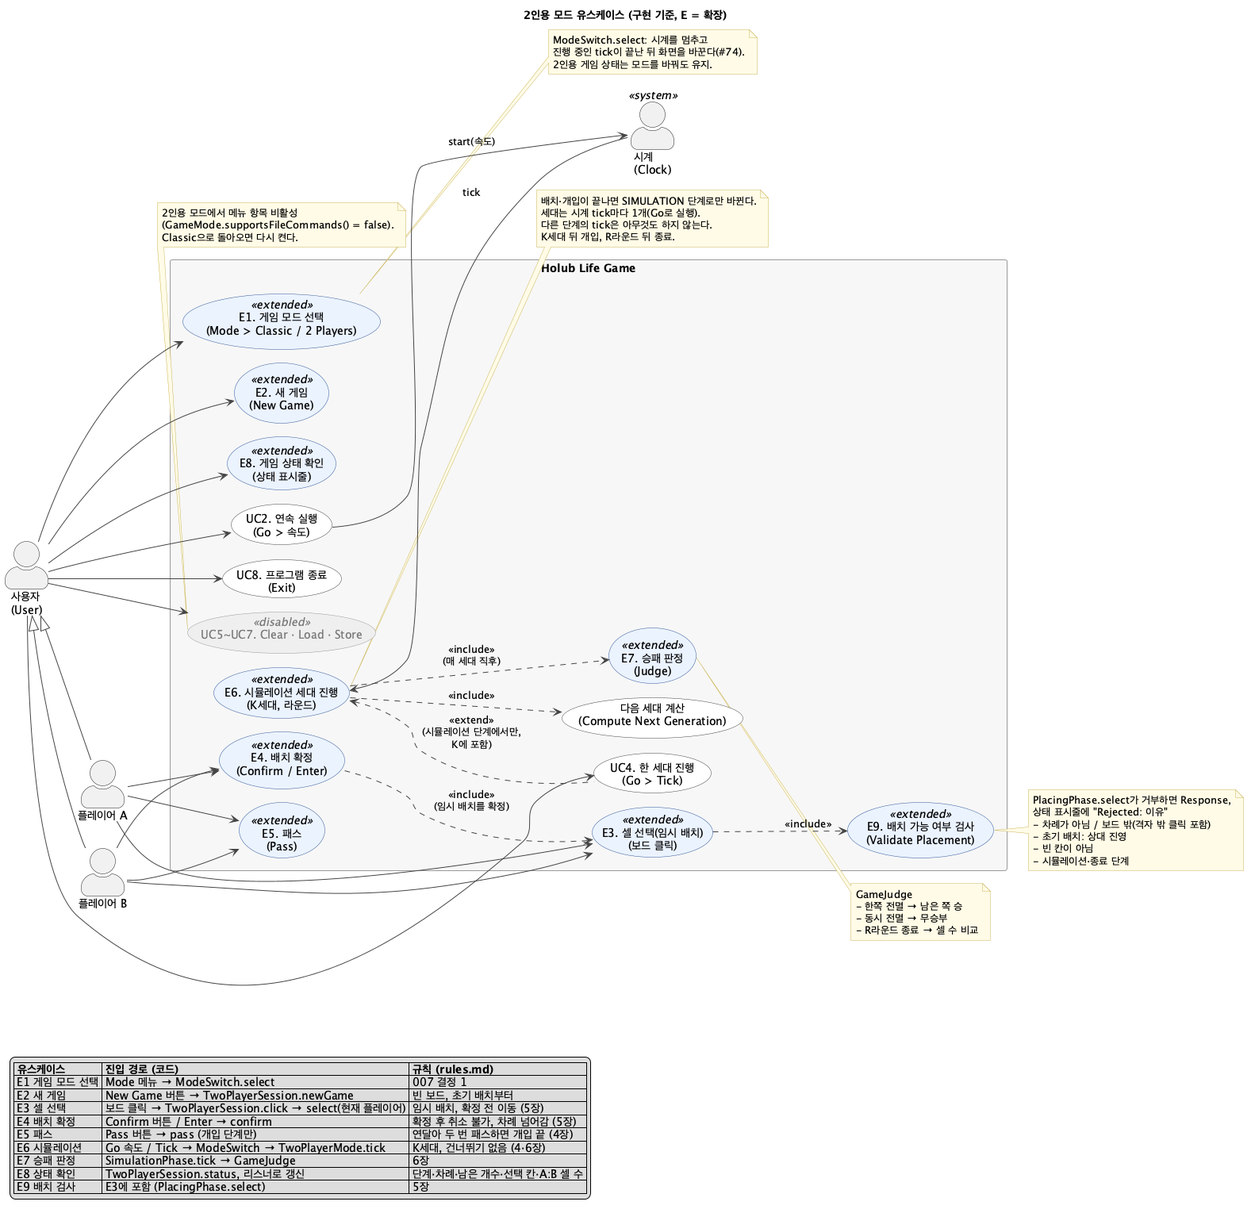
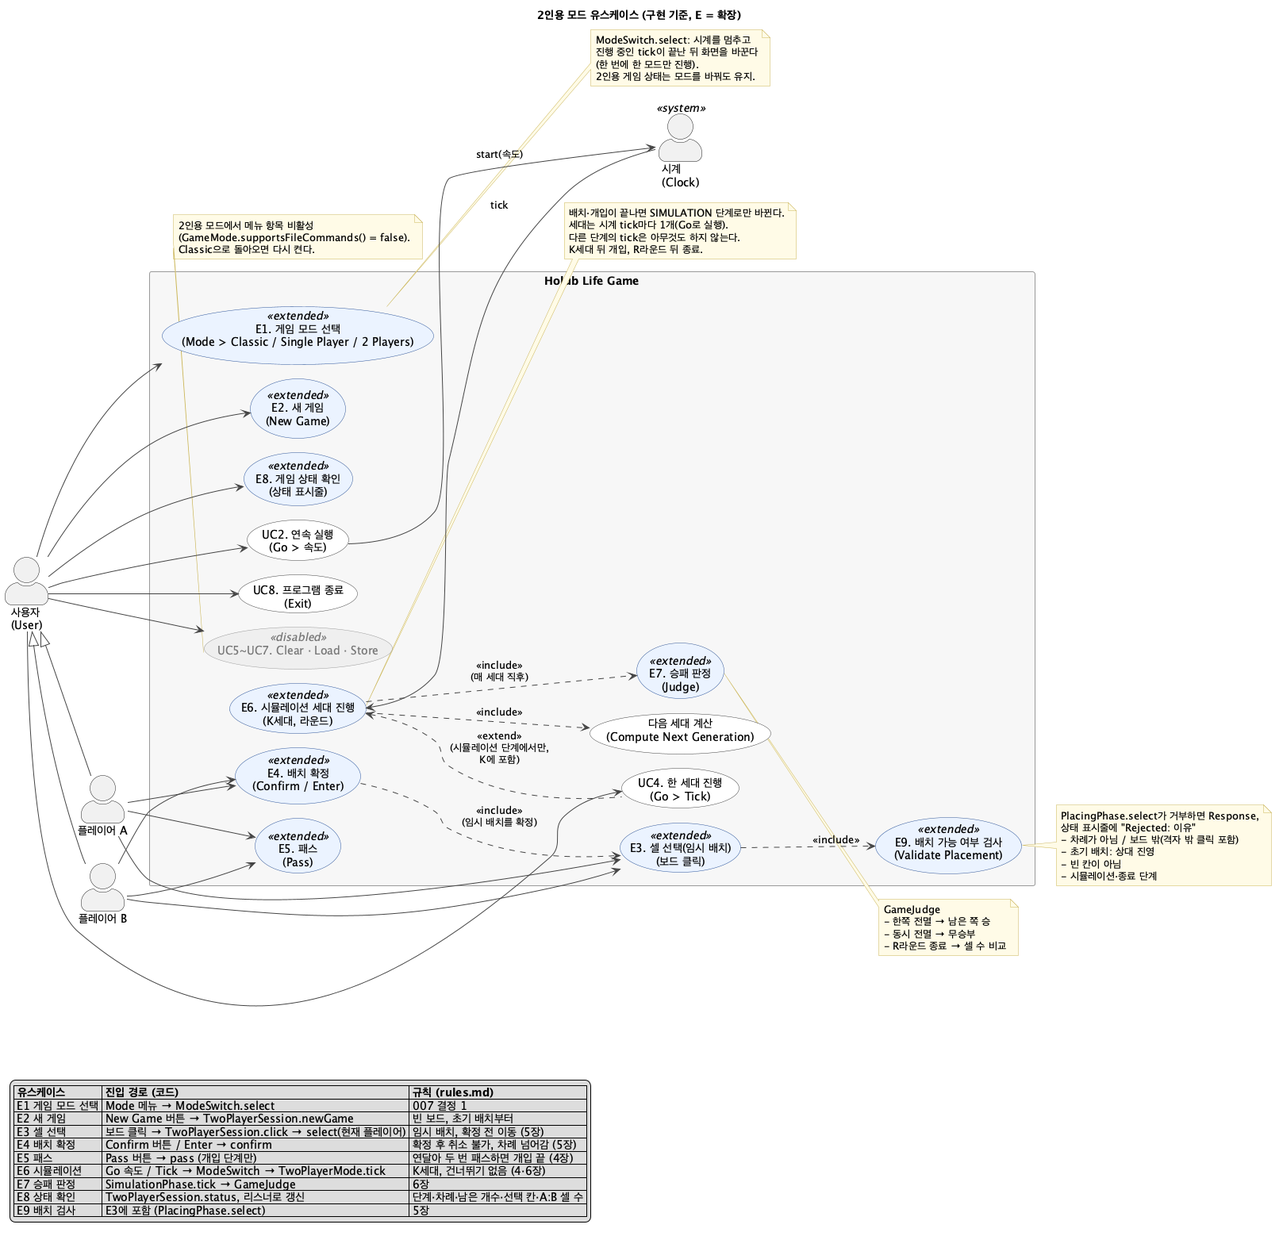
docs: 2인용 문서를 #8 이후 다른 도메인 변경에 맞춰 최종 정리 (#113)
- 006·007: 결정 당시 본문은 보존하고 "이후 변경" 절 추가
  (#69~#74 처리 결과, #74 수정 뒤 StaticLockCheck 재측정, #102·#109 영향)
- interfaces.md: TwoPlayerResident 계약(Cell 메서드 11개, 암 메서드 없음), 줄 번호, 변경 이력
- test-cases.md·README.md: 최종 테스트 결과(전체 454개 통과), 이 패키지의 A 모델 테스트 정리
- rules.md 9장 D1: 2인용에서 Preset 메뉴도 꺼짐
- twoplayer-ui-class·twoplayer-usecase 다이어그램 갱신

diff --git a/Codes/GameOfLife/src/com/holub/life/twoplayer/docs/README.md b/Codes/GameOfLife/src/com/holub/life/twoplayer/docs/README.md
@@ -2,7 +2,7 @@
 
 두 플레이어가 한 화면에서 번갈아 셀을 두고, 클래식 B3/S23 규칙으로 영역을 다투는 승패 모드다. 규칙은 [rules.md](rules.md).
 
-## 현재 상태 (2026-11-16)
+## 현재 상태 (2026-11-25, 최종)
 
 | 부분 | 이슈 | 상태 |
 | --- | --- | --- |
@@ -10,8 +10,22 @@
 | 셀 상태(DEAD/A/B)와 세대 전이 규칙, `TwoPlayerBoard` 실제 구현 | #5 | 구현 완료([006](006-two-player-cell.md) 후보 F, model·ui·application 무수정). `NeighborhoodTwoPlayerBoard`로 TP-R·TP-B·TP-I 37개 통과 |
 | UI 통합 (모드 선택·입력·상태 표시줄) | #7 | 구현 완료([007](007-two-player-ui.md) D: `GameMode` + `ModeSwitch`, model·application 무수정). TP-U 17개 통과 |
 | 문서·다이어그램 정리 | #8 | 완료. 유스케이스 다이어그램 추가, 클래스·시퀀스·상태 다이어그램을 현재 코드로 갱신, rules.md 9장(구현과 다른 부분) |
+| 다른 도메인 변경 반영 | #69~#74, #102, #109 | 완료. 006·007 끝에 "이후 변경" 절, 계약(interfaces.md)·테스트 문서·UI 다이어그램을 `origin/main` `2c22cab` 기준으로 갱신. 2인용 코드의 공개 시그니처 변경 없음 |
 
-브랜치: 이슈마다 `feature/base`에서 브랜치를 따서(`feature/5-two-player-cell`, `feature/7-two-player-ui`) `feature/base`로 PR을 보낸다. 예전 통합 브랜치 `feature/two-player-mode`는 2026-11-15에 지웠다.
+**다른 도메인 작업이 2인용에 준 영향** (#5에서 올린 이슈 (a)~(f)와 그 뒤 변경, 자세한 내용은 [006 "이후 변경"](006-two-player-cell.md#이후-변경-2026-11-25-확인)·[007 "이후 변경"](007-two-player-ui.md#이후-변경-2026-11-25-확인))
+
+| 이슈 | 결과 | 2인용 쪽 |
+| --- | --- | --- |
+| #69 렌더러가 `Resident`만 그림 | 닫힘, `BoardRenderer` 현행 유지 | `TwoPlayerRenderer` 그대로 |
+| #70 `Cell`의 암 메서드 | 코드 반영(PR #107), `CancerCell` 분리 | `TwoPlayerResident`에서 암 메서드 3개 삭제 |
+| #71 `java.awt.Point` 노출 | 닫힘(PR #106), `CellPosition` | `twoplayer`의 `java.awt` import 0 |
+| #72 2인용 진입점 | 닫힘(#7) | `TwoPlayerSession`·`TwoPlayerMode` |
+| #73 스냅숏이 생사만 저장 | 닫힘(PR #83) | 영향 없음(2인용은 `Board`를 쓰지 않음) |
+| #74 `static` 잠금 공유 | 닫힘(PR #90), 보드별 상태 | 클래식과 잠금을 공유하지 않음. `ModeSwitch` 직렬화는 앱 정책으로 유지 |
+| #102 `GameMenu.install` 삭제 | 머지(PR #103) | 시계 리스너는 `ModeSwitch` 하나 |
+| #109 Classic / Single Player / 2 Players | 머지(PR #110, [ui 012](../../ui/docs/012-classic-mode-restore.md)) | `TwoPlayerMode` 변경 없음. 2인용에서 Grid의 Clear·Load·Store와 Preset 메뉴는 꺼짐 |
+
+브랜치: 이슈마다 `feature/base`에서 브랜치를 따서(`feature/5-two-player-cell`, `feature/7-two-player-ui`) `feature/base`로 PR을 보냈고, `main`에는 PR #85(`feature/base` → `main`)로 들어갔다. 예전 통합 브랜치 `feature/two-player-mode`는 2026-11-15에 지웠다.
 
 ## 클래스
 
@@ -27,11 +41,11 @@
 | `SimulationPhase`, `GameOverPhase` | package-private | 세대 진행·판정, 종료 |
 | `GameJudge` | package-private | 판정 규칙 (셀 수 → 결과) |
 | `NeighborhoodTwoPlayerBoard` | public | `TwoPlayerBoard` 실제 구현. 64×64 `Neighborhood(8, Neighborhood(8, TwoPlayerResident))`. 칸 소유자 조회 `owner(row, column)` (#5, 006) |
-| `TwoPlayerResident` | package-private | 2인용 셀(`Cell` 구현). 상태는 소유자 `Player`(null = DEAD), rules.md 3장 전이 규칙 |
+| `TwoPlayerResident` | package-private | 2인용 셀(`Cell` 구현, `CancerCell`은 아님). 상태는 소유자 `Player`(null = DEAD), rules.md 3장 전이 규칙 |
 | `TwoPlayerSession` | public | UI 진입점의 모델 쪽(Facade). 보드·게임을 만들고 클릭을 현재 플레이어 입력으로 바꾼다. 상태 표시줄 문구, 그리기용 스냅숏, 리스너(Observer). `synchronized` (#7, 007) |
-| `ui.TwoPlayerMode` | public | 2인용 진입점. ui의 `GameMode` 구현으로 Mode 메뉴에 붙는다 (#7) |
+| `ui.TwoPlayerMode` | public | 2인용 진입점. ui의 `GameMode` 구현으로 Mode 메뉴(Classic / Single Player / 2 Players)에 붙는다 (#7) |
 | `ui.TwoPlayerPanel` | package-private | 보드 + 상태 표시줄 + 확정·패스·새 게임 버튼, Enter = 확정 (#7) |
-| `ui.TwoPlayerRenderer` | package-private | 스냅숏을 그린다. A·B 색, 진영 경계선, 임시 배치 테두리. `Neighborhood` 잠금을 쓰지 않음(#74) (#7) |
+| `ui.TwoPlayerRenderer` | package-private | 스냅숏을 그린다. A·B 색, 진영 경계선, 임시 배치 테두리. `Neighborhood`의 읽기 허가를 쓰지 않음 (#7) |
 
 `com.holub.life.twoplayer`와 모델은 AWT·Swing에 의존하지 않는다(UI 코드는 하위 패키지 `twoplayer.ui`, #7). #5부터 `Cell`·`Neighborhood`를 사용하고, #71에서 `Cell.transfer` 좌표를 기존 `CellPosition(row, column)`으로 바꿔 `TwoPlayerResident`의 Point 의존도 제거했다. 006의 Point 비용은 당시 기록으로 보존한다. 게임 진행 쪽(`TwoPlayerGame`, 단계, `GameJudge`)은 여전히 보드 구현을 모른다. [#71 설계·검증·인계](../../../../../../../../docs/GTY.md#008-모델-좌표-계약의-point-의존-제거-71).
 
@@ -45,9 +59,9 @@
 | [003-game-phase.md](003-game-phase.md) | #6 | 게임 단계 표현 → State |
 | [004-player-input.md](004-player-input.md) | #6 | 플레이어 입력 전달 → 직접 호출 + `Response` (Command 기각) |
 | [005-cell-count-and-judge.md](005-cell-count-and-judge.md) | #6 | 셀 수 집계와 승패 판정 → 별도 판정 클래스 `GameJudge` |
-| [006-two-player-cell.md](006-two-player-cell.md) | #5 | 2인용 셀 상태와 `TwoPlayerBoard` 구현 → twoplayer 안의 셀 + `Neighborhood` 재사용(model 무수정, 후보 F). `CompositeBoard`·`Board`는 쓰지 않음. 001 대체 |
-| [007-two-player-ui.md](007-two-player-ui.md) | #7 | UI 통합 → `GameMode` + 시계 하나를 잠금 하나로 나누는 `ModeSwitch`(Strategy), 진입점 `TwoPlayerSession`(Facade), 상태 표시줄 Observer, 렌더러는 `twoplayer.ui` 안. #74 모드 전환 재현 |
-| [interfaces.md](interfaces.md) | #5·#7 | `TwoPlayerBoard`, `NeighborhoodTwoPlayerBoard`, `TwoPlayerGame`, `TwoPlayerSession`, `TwoPlayerMode` 시그니처와 계약 |
+| [006-two-player-cell.md](006-two-player-cell.md) | #5 | 2인용 셀 상태와 `TwoPlayerBoard` 구현 → twoplayer 안의 셀 + `Neighborhood` 재사용(model 무수정, 후보 F). `CompositeBoard`·`Board`는 쓰지 않음. 001 대체. 끝에 이슈 (a)~(f) 처리 결과("이후 변경") |
+| [007-two-player-ui.md](007-two-player-ui.md) | #7 | UI 통합 → `GameMode` + 시계 하나를 잠금 하나로 나누는 `ModeSwitch`(Strategy), 진입점 `TwoPlayerSession`(Facade), 상태 표시줄 Observer, 렌더러는 `twoplayer.ui` 안. #74 모드 전환 재현. 끝에 #74 수정 뒤 재측정·#102·#109 영향("이후 변경") |
+| [interfaces.md](interfaces.md) | #5·#7 (#70·#71·#74·#109 반영) | `TwoPlayerBoard`, `NeighborhoodTwoPlayerBoard`, `TwoPlayerGame`, `TwoPlayerSession`, `TwoPlayerMode` 시그니처와 계약 |
 | [test-cases.md](test-cases.md) | #5·#6·#7 | 테스트 케이스 정의 (TP-R·TP-B·TP-I·TP-F·TP-P·TP-E·TP-U), 아래 "테스트" 요약 |
 
 **다이어그램** (`diagrams/`, `.puml` 원본 + png·svg)
@@ -66,7 +80,7 @@
 
 `Codes/GameOfLife/test/com/holub/life/twoplayer/`. 정의는 [test-cases.md](test-cases.md).
 
-**접두어별 요약** (2026-11-16, `./gradlew test --rerun-tasks` 결과: 2인용 테스트 96개 통과, 실패·건너뜀 0. 저장소 전체 240개 통과)
+**접두어별 요약** (2026-11-25, `origin/main` `2c22cab`에서 `./gradlew test --rerun-tasks`: TP 테스트 96개 통과, 실패·건너뜀 0. 이 패키지 전체 105개, 저장소 전체 454개 통과. 2026-11-16 #8 때는 TP 96개·전체 240개)
 
 | 접두어 | 내용 | 명세 | 이슈 | 테스트 클래스 | 정의 | JUnit |
 | --- | --- | --- | --- | --- | --- | --- |
@@ -80,13 +94,14 @@
 | **합계** | | | | | **97** | **96** |
 
 - TP-R-18(클래식 모드가 그대로 동작)은 따로 메서드를 두지 않고 기존 클래식·core 테스트 클래스로 확인한다. 그래서 정의가 JUnit보다 1개 많다.
+- 이 패키지에는 A 모델이 정의한 테스트 9개도 있다: `TwoPlayerRuleTest`의 CAN-M14(#70) 1개, `MementoCoordinateTest`의 COORD-01~07(#71) 8개. package-private `TwoPlayerResident`를 확인하려고 이 패키지에 두었다([test-cases.md](test-cases.md) 6장). 그래서 `TwoPlayerRuleTest`의 JUnit 수는 18개다.
 
 **테스트 도우미·측정 클래스** (`@Test` 없음)
 
 | 클래스 | 역할 |
 | --- | --- |
 | `StubBoard`, `GameScript`, `RealBoardScript` | 대역 보드, 게임 진행 도우미, 실제 보드 도우미 |
-| `ui.StaticLockCheck` | 007 "#74 확인" 측정 (`main`으로 실행) |
+| `ui.StaticLockCheck` | 007 "#74 확인" 측정 (`main`으로 실행). #74 수정 때 A 담당이 보드별 상태에 맞게 고쳤고, 수정 뒤 재측정 결과는 007 "이후 변경" |
 | `CellCandidateBenchmark` | 006의 측정·동등성 확인. F는 실제 `NeighborhoodTwoPlayerBoard` (`main`으로 실행, 방법은 006 "측정 방법") |
 
 실행: `cd Codes/GameOfLife && ./gradlew test` (JDK 26)

diff --git a/Codes/GameOfLife/src/com/holub/life/twoplayer/docs/interfaces.md b/Codes/GameOfLife/src/com/holub/life/twoplayer/docs/interfaces.md
@@ -47,7 +47,10 @@ public interface TwoPlayerBoard {
 # NeighborhoodTwoPlayerBoard
 
 - 제공 도메인: 2인용 모드 / 사용 도메인: 2인용 게임 진행(`TwoPlayerGame`에 넣음), 2인용 UI(#7, 조회) / 담당자: Son2kwon
-- 변경 이력: 2026-11-15, 최초 작성 (#5, [006](006-two-player-cell.md) 후보 F)
+- 변경 이력:
+  - 2026-11-15, 최초 작성 (#5, [006](006-two-player-cell.md) 후보 F)
+  - 2026-11-23, 스레드 계약: `Neighborhood`의 읽기 허가·전이 깊이가 보드별로 바뀜 (#74, A 모델). 공개 시그니처 변경 없음
+  - 2026-11-24, `TwoPlayerResident`가 `Cell`의 암 메서드 3개를 더는 구현하지 않음 (#70), `transfer` 좌표가 `CellPosition` (#71). 공개 시그니처 변경 없음
 
 ## 시그니처
 
@@ -76,14 +79,15 @@ public final class NeighborhoodTwoPlayerBoard implements TwoPlayerBoard {
 final class TwoPlayerResident implements Cell {
   Player owner();                   // 지금 소유자. DEAD면 null
   void prepareOwner(Player owner);  // 다음 toggle이 DEAD 칸을 살릴 때 쓸 소유자
-  // Cell 메서드 14개
+  // Cell 메서드 11개 (#70 이후. 암 메서드는 CancerCell로 분리되어 구현하지 않는다)
 }
 ```
 
-- **"소유자 지정 → toggle" 규칙**: 칸을 살릴 때는 `prepareOwner(owner)`를 부른 뒤 반드시 루트 `Neighborhood.toggle(row, column)`으로 살린다. 셀의 상태만 바꾸면 그 블록이 활성으로 표시되지 않아 다음 세대에 계산되지 않는다(`model/Neighborhood.java:120-128`, `313-320`). `NeighborhoodTwoPlayerBoard.place`가 이 순서를 지킨다.
+- **"소유자 지정 → toggle" 규칙**: 칸을 살릴 때는 `prepareOwner(owner)`를 부른 뒤 반드시 루트 `Neighborhood.toggle(row, column)`으로 살린다. 셀의 상태만 바꾸면 그 블록이 활성으로 표시되지 않아 다음 세대에 계산되지 않는다(`model/Neighborhood.java:131-139` 활성 검사, `305-312` `toggle`이 `amActive`와 가장자리 표시를 켬). `NeighborhoodTwoPlayerBoard.place`가 이 순서를 지킨다.
 - `toggle`: 살아 있으면 `DEAD`로, `DEAD`면 정해 둔 소유자의 산 셀로 바꾸고, 정해 둔 소유자는 지운다. 정해 둔 소유자 없이 `DEAD` 칸을 toggle하면 `DEAD` 그대로다. 살아 있는 칸을 toggle하면 죽이므로, `place`는 살아 있는 칸을 먼저 거부한다.
 - 전이: rules.md 3장. 이웃은 같은 보드의 `TwoPlayerResident` 또는 `Cell.DUMMY`(`DEAD`)다.
-- 저장·암 메서드: #71에 따라 `transfer(Memento, CellPosition, boolean)`을 구현하며 AWT 좌표에 의존하지 않는다. `transfer`는 false(아무것도 안 함), `createMemento`는 `UnsupportedOperationException`, `isCancer`는 false, `setCancer`·`cureCancer`는 아무것도 안 함(2인용 저장 미지원, rules.md 8장).
+- 저장 메서드: `transfer(Memento, CellPosition, boolean)`은 false(아무것도 안 함), `createMemento`는 `UnsupportedOperationException`(2인용 저장 미지원, rules.md 8장). #71 이후 좌표가 `CellPosition`이라 `java.awt`에 의존하지 않는다. 테스트: `MementoCoordinateTest` COORD-05(A 모델 정의).
+- 암 메서드: 구현하지 않는다. #70에서 `isCancer`·`setCancer`·`cureCancer`가 `Cell`에서 `CancerCell`로 분리되었고 `TwoPlayerResident`는 `CancerCell`이 아니다. 테스트: `TwoPlayerRuleTest` CAN-M14(A 모델 정의).
 
 ---
 
@@ -189,7 +193,9 @@ public final class TwoPlayerSession {
 # TwoPlayerMode
 
 - 제공 도메인: 2인용 모드(`twoplayer.ui`) / 사용 도메인: 조립(`Life`), ui(`LifeFrame`·`ModeSwitch`, `GameMode`로만) / 담당자: Son2kwon
-- 변경 이력: 2026-11-16, 최초 작성 (#7)
+- 변경 이력:
+  - 2026-11-16, 최초 작성 (#7)
+  - 2026-11-25, Mode 메뉴가 Classic / Single Player / 2 Players로 바뀜 (#109, [ui 012](../../ui/docs/012-classic-mode-restore.md)). `TwoPlayerMode` 시그니처 변경 없음
 
 ## 시그니처
 
@@ -210,4 +216,5 @@ public final class TwoPlayerMode implements com.holub.life.ui.GameMode {
 
 - `GameMode` 계약을 따른다([ui interfaces.md](../../ui/docs/interfaces.md)). `tick()`은 시뮬레이션 단계에서만 1세대 진행하고(K에 들어감), 다른 단계에서는 아무것도 하지 않는다.
 - 모드를 바꿔도 게임 상태는 유지된다. 처음부터 하려면 화면의 "New Game" 버튼.
+- `supportsFileCommands()` = false이므로 2인용에서는 Grid의 Clear·Load·Store가 꺼진다. Preset 메뉴는 Single Player에서만 켜지므로 2인용에서도 꺼져 있다([ui 012](../../ui/docs/012-classic-mode-restore.md)). `GameMode`에 메서드를 더하지 않았다.
 - 화면: 클릭 = 현재 플레이어 임시 배치·이동, Enter 또는 "Confirm" = 확정, "Pass" = 패스(개입 단계만), "New Game". 격자 밖 클릭은 `OUT_OF_BOARD`로 거부되어 이유가 표시된다.

diff --git a/Codes/GameOfLife/src/com/holub/life/twoplayer/docs/test-cases.md b/Codes/GameOfLife/src/com/holub/life/twoplayer/docs/test-cases.md
@@ -2,6 +2,7 @@
 
 - 근거: [rules.md](rules.md) (2인용 Life Game 규칙 명세). 아래에서 "명세 N장"은 이 문서를 뜻한다.
 - 상태: TP-F·TP-P는 #6 1차, TP-E는 #6 2차에서 테스트 작성(아래 각 장 참고). TP-R·TP-B·TP-I는 #5에서 [006](006-two-player-cell.md) 설계(F) 기준으로 정의하고 테스트를 작성했다(37개, 골격 단계에서 모두 실패 → 구현 후 통과). TP-U는 #7에서 [007](007-two-player-ui.md) 기준으로 다시 정의하고 테스트를 작성했다(5장, 17개, `TwoPlayerUiTest`. 골격 단계에서 17개 실패 → 구현 후 통과).
+- 최종 확인 (2026-11-25, `origin/main` `2c22cab`, `./gradlew test --rerun-tasks`): TP 케이스 JUnit 96개 모두 통과. #7 이후 다른 도메인 변경(#70·#71·#74·#102·#109)에도 TP 케이스의 정의·기대값은 바뀌지 않았다. 같은 테스트 패키지에 다른 도메인이 정의한 테스트가 늘었다(6장).
 - 공통 전제
   - 좌표는 (행, 열)이고 0부터 센다. 보드 밖은 항상 `DEAD`다.
   - 격자 표기: `A`·`B`는 각 플레이어의 살아 있는 셀, `.`은 죽은 셀이다. 적지 않은 아래쪽 행은 모두 `.`이다.
@@ -197,8 +198,19 @@ TP-P-10: 남은 개수가 0인 플레이어는 자동 패스(TP-F-09) 때문에 
 | TP-U-17 | 예외 | 격자 밖 픽셀 클릭은 무시되고 이유가 표시된다 | 보드 영역 520×520(칸 8px, 격자 512px), 픽셀 (515,10) 클릭 | 임시 배치 없음, 문구에 `Rejected: outside the board` | `#clickOutsideGridShowsReason` |
 
 - TP-U-06에서 Clear·Load까지 끄는 이유는 007 결정(149행): 2인용 모드에서 누르면 보이지 않는 클래식 보드를 바꾸기 때문이다.
-- TP-U-08의 Exit은 `System.exit(0)`을 부르므로(`ui/GameMenu.java:23`) 실제 종료는 테스트하지 않는다.
+- TP-U-08의 Exit은 `System.exit(0)`을 부르므로(정의 당시 `ui/GameMenu.java:23`, 지금 `:69`·`:109`) 실제 종료는 테스트하지 않는다.
+- 앱의 Mode 메뉴는 #109부터 Classic / Single Player / 2 Players다([ui 012](../../ui/docs/012-classic-mode-restore.md)). TP-U는 `ModeSwitch`에 `ClassicMode`(암세포 없는 `GameController`)와 2인용만 넣어 확인하고, Classic·Single Player 분리는 `com.holub.life.ClassicModeTest`(#109)가 맡는다. TP-U-11(지금 모드만 tick)·TP-U-13(전환은 진행 중 tick 뒤)은 모드 수와 관계없는 `ModeSwitch`의 보장이다.
+- TP-U-13은 #74가 고쳐진 뒤에도 유지한다. 이제 보호하는 것은 모델 잠금이 아니라 "보이지 않는 모드의 보드를 진행하지 않는다"는 실행 정책이다([007](007-two-player-ui.md) "이후 변경").
 - 이전 정의(2026-11-03)와 달라진 점: TP-U-01의 "셀 종류가 바뀐다"를 "화면(카드)이 바뀐다"로 고쳤다(007: 한 패널의 셀을 바꾸지 않고 모드마다 화면을 둔다). TP-U-06에 Clear·Load를 더했다. TP-U-09~17을 추가했다(패스·Tick·#74 회피·시계 정지·새 게임·메뉴 열림·격자 밖 클릭). TP-U-08의 `Universe.java` 근거를 지금 파일로 바꿨다.
+
+## 6. 이 패키지에 있지만 다른 도메인이 정의한 테스트
+
+package-private `TwoPlayerResident`에 접근하려고 `com.holub.life.twoplayer` 테스트 패키지에 둔 A 모델 테스트다. 정의와 기대값은 [model test-cases.md](../../model/docs/test-cases.md)가 기준이고, 여기서는 2인용 계약에 닿는 부분만 적는다.
+
+| ID | 정의한 곳 | 2인용 계약과의 관계 | 테스트 |
+| --- | --- | --- | --- |
+| CAN-M14 | model, #70 | `TwoPlayerResident`는 `CancerCell`이 아니다(암 메서드 없음, [interfaces.md](interfaces.md) `TwoPlayerResident`) | `TwoPlayerRuleTest#twoPlayerCellsDoNotSupportCancer` |
+| COORD-01~07 | model, #71 | COORD-05: 2인용 셀의 `transfer`는 false이고 셀을 바꾸지 않는다(2인용 저장 미지원, rules.md 8장). 나머지는 클래식·파일 좌표 | `MementoCoordinateTest` (JUnit 8개) |
 
 ## 기대값 검증 기록
 

diff --git a/Codes/GameOfLife/src/com/holub/life/twoplayer/docs/006-two-player-cell.md b/Codes/GameOfLife/src/com/holub/life/twoplayer/docs/006-two-player-cell.md
@@ -1,6 +1,6 @@
 # [006] 2인용 셀 상태 표현과 `TwoPlayerBoard` 실제 구현
 
-- 상태: 채택 (구현 완료 2026-11-15, `NeighborhoodTwoPlayerBoard`·`TwoPlayerResident`)
+- 상태: 채택 (구현 완료 2026-11-15, `NeighborhoodTwoPlayerBoard`·`TwoPlayerResident`). 이슈 (a)~(f)의 처리 결과는 끝의 "이후 변경"
 - 작성자: Son2kwon / 2026-11-15 / 관련 이슈: #5
 - 대체하는 문서: [001 셀 상태 표현과 이웃 상태 조회](../../docs/001-cell-state-representation.md) (상태: 대체됨(→ twoplayer/006))
 - 근거 명세: [rules.md](rules.md) 3장(세대 전이), 6장(셀 수), 8장 요구사항 1~3
@@ -217,3 +217,19 @@ public final class NeighborhoodTwoPlayerBoard implements TwoPlayerBoard {
 - #7: 렌더러가 `owner()`를 `TwoPlayerBoard` 인터페이스로 읽어야 하는지 정한다(그러면 `StubBoard`에도 필요하다). 지금은 `NeighborhoodTwoPlayerBoard`에만 있다([interfaces.md](interfaces.md)).
 - ~~실제 2인용 셀·보드가 `src`에 들어오면 `CellCandidateBenchmark`의 F 쪽을 실제 클래스로 바꾼다.~~ 완료(2026-11-15). `PrototypeCell`을 지우고 F는 `NeighborhoodTwoPlayerBoard`를 쓴다. G와 클래식 기준선은 비교용으로 남겼다.
 - ~~구현 후 이 문서의 F 열을 실제 클래스의 LOC·tick 시간으로 다시 적는다.~~ 완료(오버헤드 비교표, "측정값 갱신").
+
+## 이후 변경 (2026-11-25 확인)
+
+위 본문은 결정 당시 코드(`8dcec2f`) 기준이라 줄 번호와 사실을 그대로 둔다. 그 뒤 다른 도메인이 (a)~(f)를 처리하면서 F의 "감수하는 비용" 일부가 없어졌다. 결정(F, W3)은 바뀌지 않았다. 확인 기준: `origin/main` `2c22cab`, GitHub 이슈 상태는 2026-11-25 조회.
+
+| 이슈 | 처리 | 2인용에 생긴 변화 |
+| --- | --- | --- |
+| #69 (a) 렌더러 | 닫힘(11-24). `BoardRenderer`는 바꾸지 않음(ui [007](../../ui/docs/007-renderer-dispatch.md)·[008](../../ui/docs/008-board-api-boundary.md) 현행 유지) | 없음. 2인용은 [007](007-two-player-ui.md) 결정 3의 `TwoPlayerRenderer`로 그린다 |
+| #70 (b) `Cell`의 암 메서드 | 코드 반영(PR #107, [GTY 009](../../../../../../../../docs/GTY.md#009-암세포-셀-계약-분리-70)): 암 메서드가 `CancerCell`로 분리. GitHub 이슈는 다시 열린 상태 | `TwoPlayerResident`의 할 일 없는 암 메서드 3개 삭제. 구현할 `Cell` 메서드 14개 → 11개. CAN-M14로 고정 |
+| #71 (c) `java.awt.Point` | 닫힘(11-24, PR #106, [GTY 008](../../../../../../../../docs/GTY.md#008-모델-좌표-계약의-point-의존-제거-71)): `Cell.transfer`·`Memento` 좌표가 `CellPosition` | `twoplayer` 패키지의 `java.awt` import 1개 → 0개. COORD-05로 고정 |
+| #72 (d) 2인용 진입점 | 닫힘(11-16, #7) | `TwoPlayerSession`·`TwoPlayerMode` ([007](007-two-player-ui.md)) |
+| #73 (e) 스냅숏 | 닫힘(11-17, PR #83, [GTY 004](../../../../../../../../docs/GTY.md#004-암세포-스냅샷-보존-73)): 암 상태 보존 | 없음. 2인용은 `Board`·`BoardSnapshot`을 쓰지 않는다(W3). 2인용 소유자 저장은 여전히 범위 밖(rules.md 8장) |
+| #74 (f) `static` 잠금 | 닫힘(11-23, PR #90, [GTY 007](../../../../../../../../docs/GTY.md#007-보드별-전이-읽기-허가-분리-74)): 읽기 허가·전이 깊이가 보드별 | 클래식 보드와 잠금을 공유하지 않는다. `ModeSwitch`의 "한 번에 한 모드만 tick"은 앱 실행 정책으로 남음([007](007-two-player-ui.md) "이후 변경") |
+
+- "감수하는 비용" 중 `java.awt` 의존(#71), 할 일 없는 암 메서드(#70), `static` 잠금 공유(#74)는 없어졌다. 남은 비용은 "소유자 지정 → `toggle`" 두 단계와 `step()` 4줄 중복(W3)이다.
+- 오버헤드 비교표의 F 열(`Point` 1개, `TwoPlayerResident` 105줄)은 결정 당시 실측값으로 둔다. 같은 기준(빈 줄·주석 제외)으로 지금 `TwoPlayerResident`는 97줄이다(암 메서드 3개 삭제로 −8, 실측).
